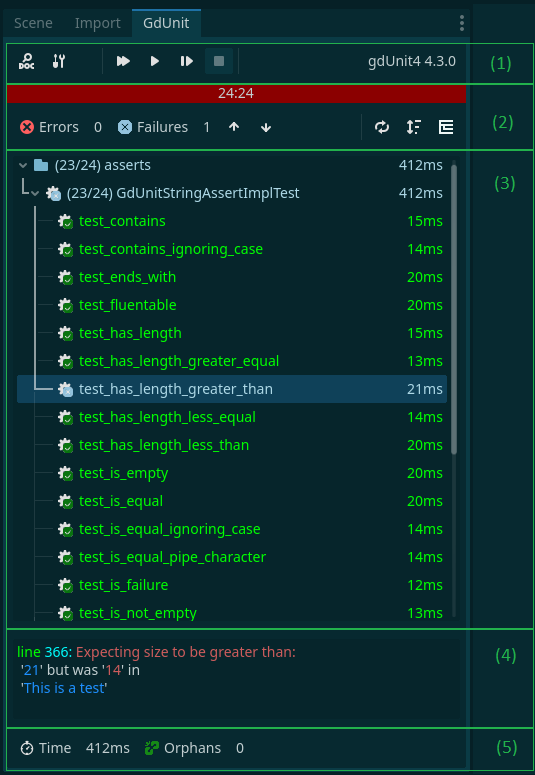
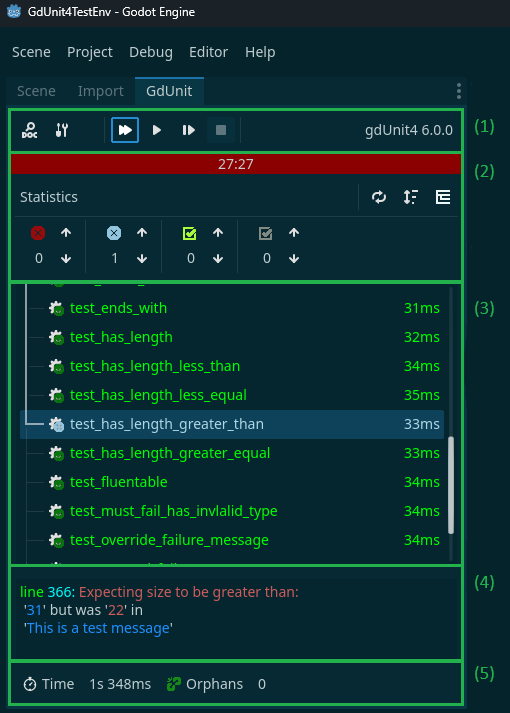
DOC-958: Update documentation to v6.0.0 (part2)
# Why
The documentation is kind of outdated and needs to be updated

# What
- fix sorting order of testsuite/testcase/hooks
- updating settings screen shots
- updating inspector screen shots

Changed region(s): [[0.0, 0.0, 1.0, 1.0], [0.9412, 0.4011, 0.9706, 0.4628]]

diff --git a/documentation/doc/_first_steps/run-tests.md b/documentation/doc/_first_steps/run-tests.md
@@ -93,21 +93,22 @@ This area gives you information about the current/last test execution, such as t
 With the arrow buttons, you can navigate back and forth over found failures.<br>
 ![status-bar]({{site.baseurl}}/assets/images/inspector/status-bar.png){:.centered}
 
-|Marker|Description|
-|--- | --- |
-|(1)| Test execution progress (indicator of test run)|
-|(2)| Number of errors found (parse/runtime errors)|
-|(3)| Number of test case failures found|
-|(4)| Navigate to previous failure |
-|(5)| Navigate to next failure |
-|(6)| Run discover tests |
-|(7)| Sort the tree |
-|(8)| Change the tree presentation |
+| Marker | Description                                     |
+|--------|-------------------------------------------------|
+| (0)    | Test execution progress (indicator of test run) |
+| (1)    | Number of errors (parse/runtime errors)         |
+| (2)    | Number of failures                              |
+| (3)    | Number of flaky tests                           |
+| (4)    | Number of skipped tests                         |
+| (5)    | Discover and run all tests                      |
+| (6)    | Change sort tree mode (asc/desc/time)           |
+| (7)    | Change the test tree presentation  (tree/flat)  |
 
 - **Sorting Options**
 
     The sorting option controls how the test results are displayed in the inspector tree. You can sort the results by:
 
+  - **Unsorted**: The natural order.
   - **Name Ascending**: Sorts the test cases alphabetically from A to Z.
   - **Name Descending**: Sorts the test cases alphabetically from Z to A.
   - **Test Execution Time**: Sorts the test cases based on the time they took to execute, from longest to shortest.

diff --git a/documentation/doc/_first_steps/settings.md b/documentation/doc/_first_steps/settings.md
@@ -136,9 +136,6 @@ The text field at the bottom displays contextual information about the selected 
 
 ---
 
----
-
-
 ## UI Settings
 
 ![settings-ui]({{site.baseurl}}/assets/images/settings/settings-ui.png){:.centered}

diff --git a/documentation/doc/_testing/hooks.md b/documentation/doc/_testing/hooks.md
@@ -1,7 +1,7 @@
 ---
 layout: default
 title: Hooks
-nav_order: 3
+nav_order: 4
 ---
 
 # GdUnit Hooks
